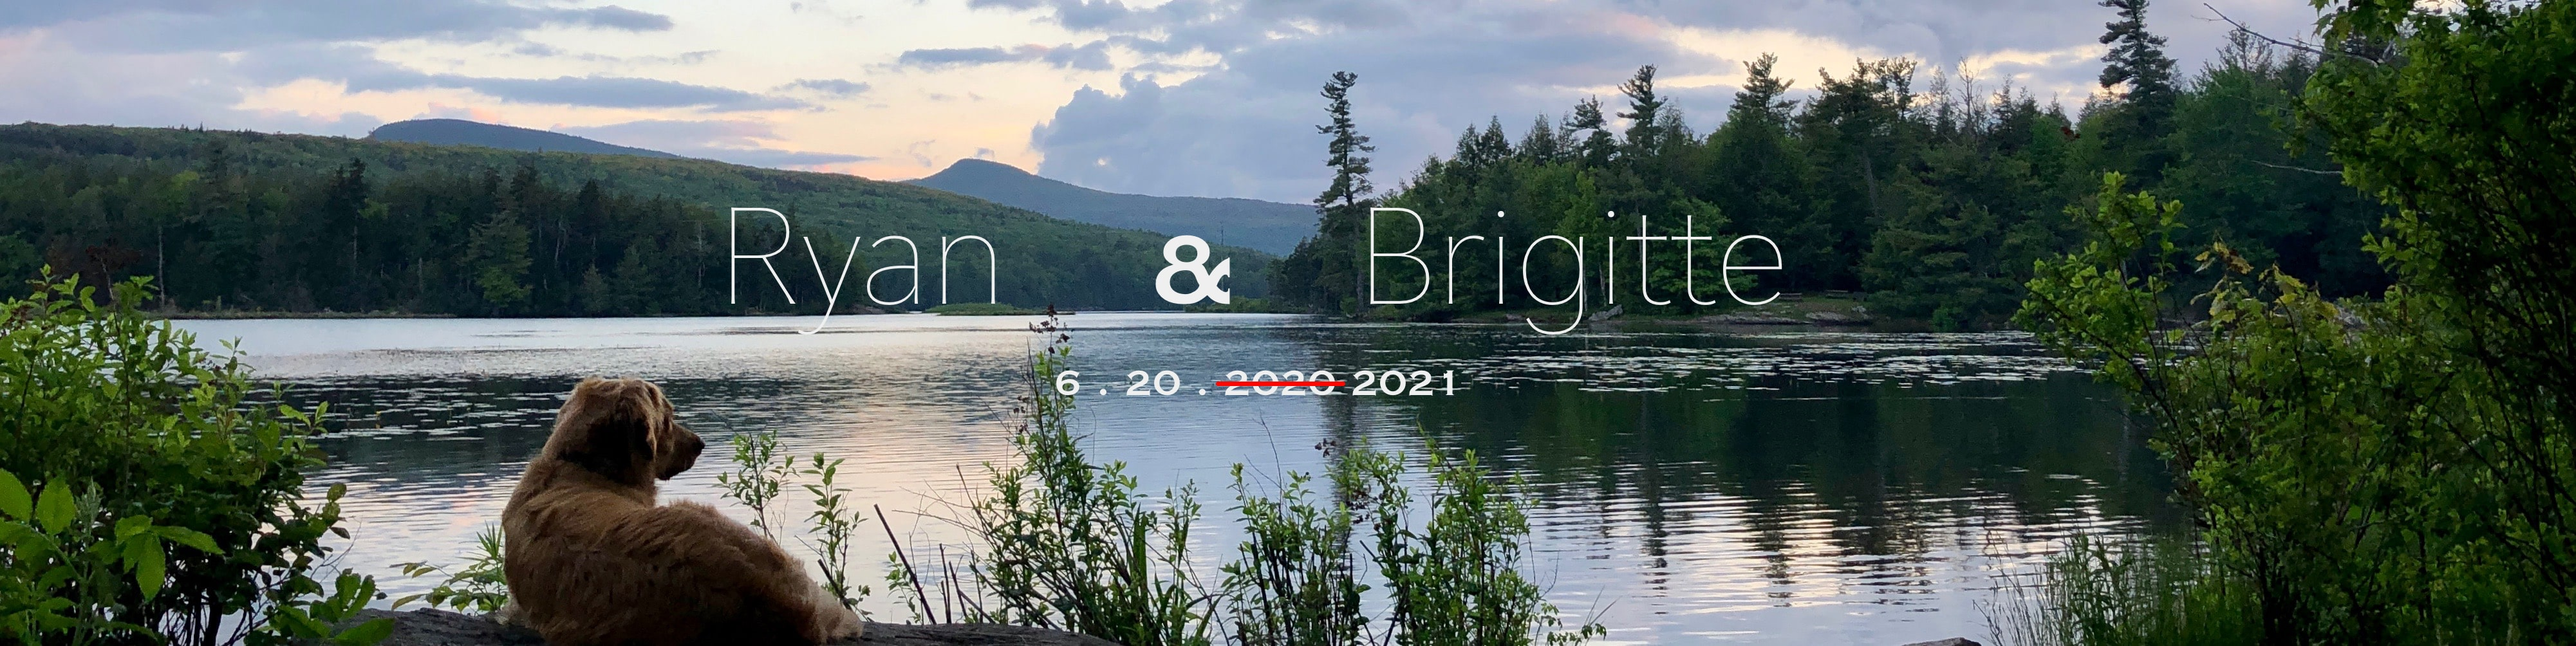
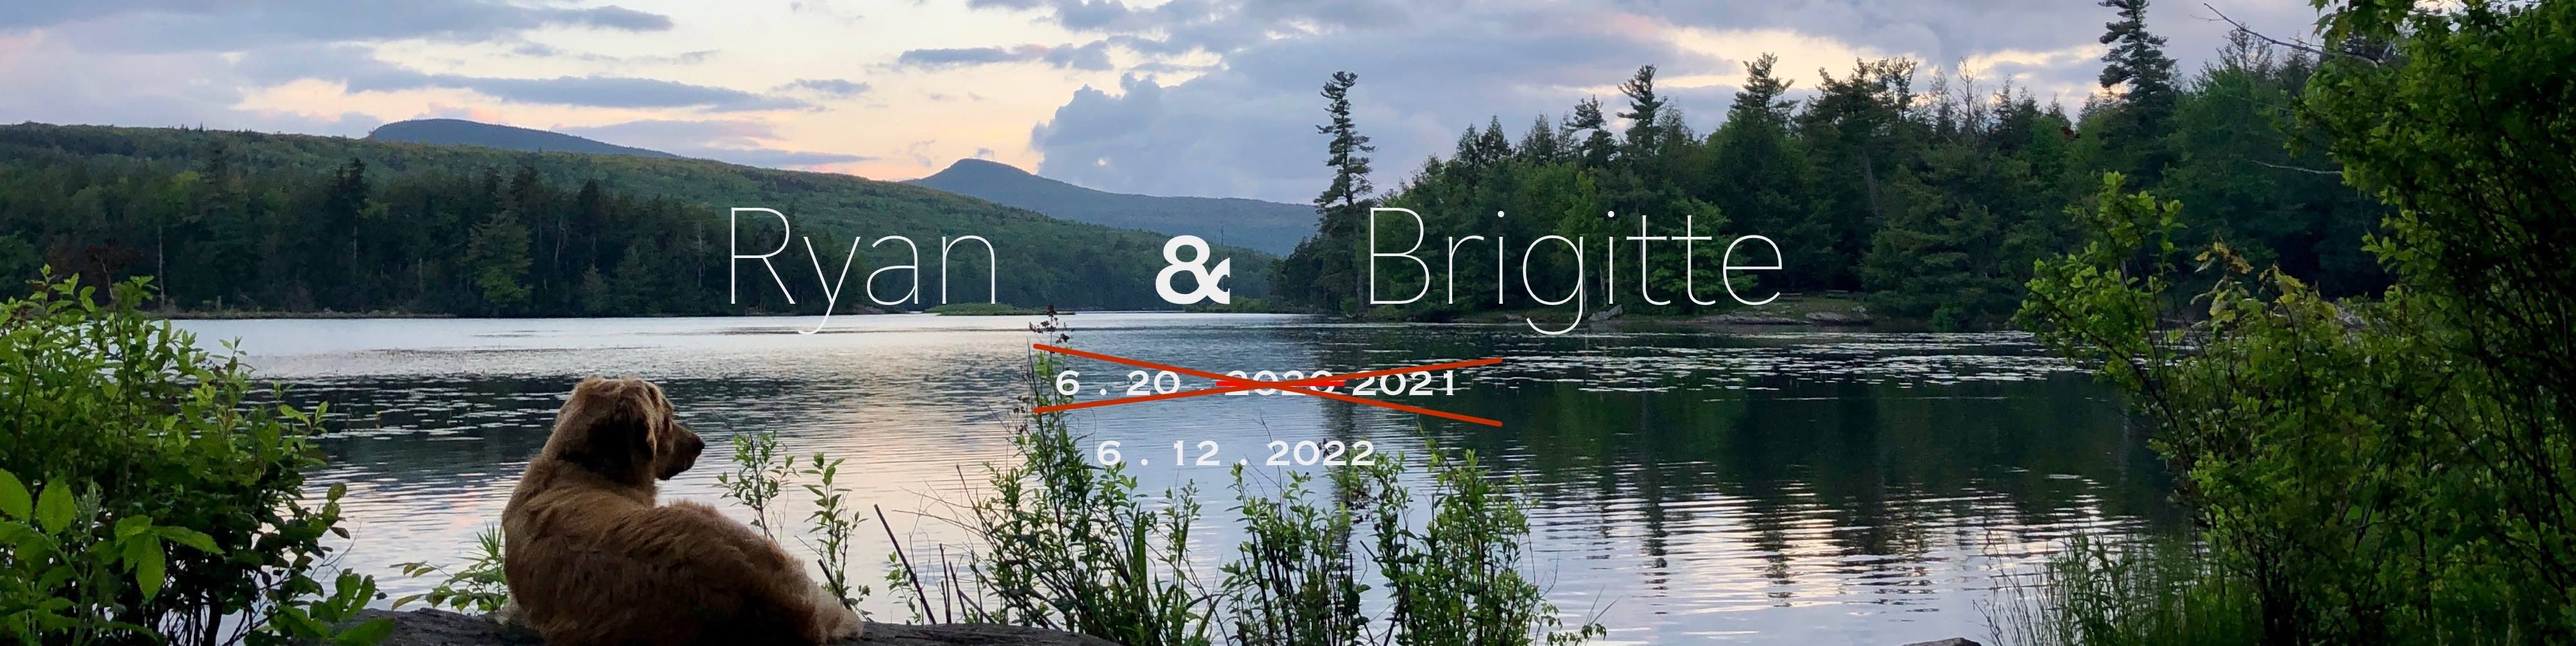
Postponing our wedding again SUCKS SUCKS SUCKS

diff --git a/app/containers/AccommodationsPage/AccommodationsPage.js b/app/containers/AccommodationsPage/AccommodationsPage.js
@@ -38,10 +38,11 @@ export default class AccommodationsPage extends React.PureComponent {
         <br />
         <div className="sub-text">
           Please reference the Quirk/McDonald Wedding when reserving your room
-          for a special rate (when calling). Reserve your room by 05/19/2021.
+          for a special rate (when calling). Reserve your room by 05/19/2022.
           Transportation will be provided to and from the wedding for guests
           staying in this hotel. <br />
           <br /> Please click 'Book Now' to make a reservation.
+          <br /> Note: Dates will be updated soon.
         </div>
       </div>
     );
@@ -60,10 +61,11 @@ export default class AccommodationsPage extends React.PureComponent {
         <br />
         <div className="sub-text">
           Please reference the Quirk/McDonald Wedding when reserving your room
-          for a special rate (when calling). Reserve your room by 05/19/2021.
+          for a special rate (when calling). Reserve your room by 05/19/2022.
           Transportation will be provided to and from the wedding for guests
           staying in this hotel. <br />
           <br /> Please click 'Book Now' to make a reservation.
+          <br /> Note: Dates will be updated soon.
         </div>
       </div>
     );

diff --git a/app/components/Header/Header.js b/app/components/Header/Header.js
@@ -76,8 +76,8 @@ class HeaderComponent extends React.Component {
         <Modal
           title={'COVID-19 UPDATE'}
           text={
-            'Love is infectious but so is COVID-19.  As a result, we have made the difficult decision to postpone our June 20th, 2020 wedding to June 20th, 2021.  ' +
-            'Please contact us if you need assistance with travel arrangements.  Invitaitons to be sent in March 2021.'
+            'Love is infectious but so is COVID-19.  As a result, we have made the difficult decision to postpone (for the second time) our June 20th, 2021 wedding to June 12th, 2022.  ' +
+            'Please contact us if you need assistance with travel arrangements.  Invitaitons to be sent in March 2022.'
           }
           onReadyObj={this.modalOnReady}
         />

diff --git a/app/containers/RSVPPage/RSVPPage.js b/app/containers/RSVPPage/RSVPPage.js
@@ -13,8 +13,8 @@ export default function RSVPPage() {
     <div className="rsvp-page">
       <TitleTextCrunch text="RSVP" />
       <Typography variant="h1">
-        Expect wedding invitations to be sent in March of 2021. <br />
-        {/* Please send back your RSVP card by <b><em><u>May 10th, 2021</u></em></b>. */}
+        Expect wedding invitations to be sent in March of 2022. <br />
+        {/* Please send back your RSVP card by <b><em><u>May 10th, 2022</u></em></b>. */}
       </Typography>
       <Typography variant="h2">
         Please contact us by phone or text at{' '}

diff --git a/app/components/SomebodySays/SomebodySays.js b/app/components/SomebodySays/SomebodySays.js
@@ -17,6 +17,7 @@ import AutoRenew from '@material-ui/icons/Autorenew';
 import { AVATAR, useStyles } from './constants';
 import Cyndaquil from './images/cyndaquil_says.jpg';
 import Edgar from './images/edgar_says.jpg';
+import Wallace from './images/wallace_says.jpg';
 
 /**
  * SomebodySays Component
@@ -56,6 +57,8 @@ const SomebodySays = (props) => {
         return Cyndaquil;
       case AVATAR.EDGAR:
         return Edgar;
+      case AVATAR.WALLACE:
+        return Wallace;
       default:
         return Cyndaquil;
     }

diff --git a/app/containers/FAQPage/faqContent.js b/app/containers/FAQPage/faqContent.js
@@ -39,12 +39,12 @@ export const faqList = [
   },
   {
     question: 'When will the official Wedding Invitations be sent?',
-    answer: 'Expect your invitation by April 2021.',
+    answer: 'Expect your invitation by April 2022.',
   },
   {
     question: 'When should I RSVP by?',
     answer:
-      'Please send your RSVP card back by May 10th, 2021. Earlier responses are welcome!',
+      'Please send your RSVP card back by May 10th, 2022. Earlier responses are welcome!',
   },
   {
     question:

diff --git a/app/containers/RegistryPage/RegistryPage.js b/app/containers/RegistryPage/RegistryPage.js
@@ -115,7 +115,7 @@ export default function RegistryPage() {
         </Card>
       </div>
       <div className="disclaimer-text">
-        NOTE: Because we live in Connecticut, we will not be able to bring any
+        NOTE: Because we live in New Jersey, we will not be able to bring any
         large gifts home with us after the wedding. We would appreciate your
         consideration to send gifts to our home address if you do choose to
         purchase one.

diff --git a/app/components/Footer/Footer.js b/app/components/Footer/Footer.js
@@ -4,11 +4,11 @@ import './style.scss';
 const Footer = () => (
   <footer>
     <section>
-      Ryan{' '}
+      Ryan &nbsp;
       <span role="img" aria-label="heart-emoji">
         ❤
       </span>
-      Brigitte
+      &nbsp; Brigitte
     </section>
   </footer>
 );

diff --git a/app/components/SomebodySays/constants.js b/app/components/SomebodySays/constants.js
@@ -3,6 +3,7 @@ import { makeStyles } from '@material-ui/core/styles';
 export const AVATAR = {
   CYNDAQUIL: 'Cyndaquil',
   EDGAR: 'Edgar',
+  WALLACE: 'Wallace',
 };
 
 export const useStyles = makeStyles((theme) => ({

diff --git a/README.md b/README.md
@@ -1,4 +1,3 @@
-
 # Ryan and Brigitte's Wedding Website
 
 Website to showcase our wedding :)
@@ -8,103 +7,105 @@ Website to showcase our wedding :)
 Using the following frameworks/libraries/tools:
 
 - _React.js_ - React 16, React Router 5
-- _Redux.js_ - Redux saga and Reselect
+- _Redux.js_ - Redux saga and Reselect -> Equipped but found no use for it :/
 - _Babel_ - ES6, ESNext, Airbnb and React/Recommended config
 - _Webpack_ - Webpack 4, Hot Reloading, Code Splitting, Optimized Prod Build
-- _Test_ - Jest with Enzyme
+- _Test_ - Jest with Enzyme -> I should really write tests :)
 - _Lint_ - ESlint
 - _Styles_ - SCSS Styling
-
 
 ## Getting Started
 
 ### Node.js Runtime
+
 This application will run on the Node.js runtime and NPM.
 
 ##### Windows User
-1) Download Windows installer of Node.js: https://nodejs.org/en/ <br />
-    a) Select the version that is “Recommended for Most Users” <br />
-2) Run the installer <br />
-    b) Allow for all things to be installed (Node.js runtime environemnt, NPM, and allow the setup to add them to your PATH)
+
+1. Download Windows installer of Node.js: https://nodejs.org/en/ <br />
+   a) Select the version that is “Recommended for Most Users” <br />
+2. Run the installer <br />
+   b) Allow for all things to be installed (Node.js runtime environemnt, NPM, and allow the setup to add them to your PATH)
 
 ##### Mac User
-1) Install xcode if it is not already installed: <br />
+
+1.  Install xcode if it is not already installed: <br />
     a) Open terminal <br />
     b) Type: <br />
     >       xcode-select --install
-2) Install Homebrew if it is not already installed: <br />
+2.  Install Homebrew if it is not already installed: <br />
     a) Open terminal <br />
     b) Type: <br />
     >       ruby -e "$(curl -fsSL https://raw.githubusercontent.com/Homebrew/install/master/install)"
-3) Install Node.js <br />
+3.  Install Node.js <br />
     a) Open terminal <br />
     b) Type: <br />
     >       brew install node
 
-   
 ### IntelliJ Configurations
-1) Verify that you have your language level set to React JSX
 
-    a) Preferences / Language & Frameworks / JavaScript
-    
-    b) Set JavaScript language level to React JSX in the dropdown
-    
-2) Set up IntelliJ to run the app locally:
+1. Verify that you have your language level set to React JSX
 
-    a) Edit Run Configurations 
-    
-    b) Add new configuration (plus button in top right)
-    
-    c) Select 'npm'
-    
-    d) Verify that the 'package.json' points to the file of the same name within the root of our project space
-    
-    e) set the command to 'run'
-     
-    f) set the scripts to 'start'
-    
+   a) Preferences / Language & Frameworks / JavaScript
+
+   b) Set JavaScript language level to React JSX in the dropdown
+
+2. Set up IntelliJ to run the app locally:
+
+   a) Edit Run Configurations
+
+   b) Add new configuration (plus button in top right)
+
+   c) Select 'npm'
+
+   d) Verify that the 'package.json' points to the file of the same name within the root of our project space
+
+   e) set the command to 'run'
+
+   f) set the scripts to 'start'
 
 ## Running Locally
-1) The following are NPM commands for installing module dependencies in the package.json 
-and for compiling/executing modules.  Run these commands from project root directory.
- 
-    a) Install dependent modules: 
-    >       npm install 
-    
-    b) Run the UI (which runs webpack server, transpiles JS, compiles SCSS files, 
-    and watches for any changes so that they can be reflected in the running 
-    application): <br />
-    >       npm start
-    
-    c) Currently the application runs on port 8080; navigate to:
-    >       http://localhost:8080
 
-## Testing 
+1.  The following are NPM commands for installing module dependencies in the package.json
+    and for compiling/executing modules. Run these commands from project root directory.
+    a) Install dependent modules: > npm install
+
+        b) Run the UI (which runs webpack server, transpiles JS, compiles SCSS files,
+        and watches for any changes so that they can be reflected in the running
+        application): <br />
+        >       npm start
+
+        c) Currently the application runs on port 8080; navigate to:
+        >       http://localhost:8080
+
+## Testing
 
 ##### Creating Tests
-1)  Tests for each component are in:
+
+1.  Tests for each component are in:
+
     >       [component directory]/tests/[component name].test.js
 
-2) Running tests with locally:
+2.  Running tests with locally:
 
-    a) For a single test run which also generates coverage reports where that 
-    outputs to the <i>/coverage</i> directory.  In coverage directory,
+    a) For a single test run which also generates coverage reports where that
+    outputs to the <i>/coverage</i> directory. In coverage directory,
     open <i><b>index.html</b></i> in a browser for optimal viewing.
-    
+
     >       npm run test
-    
+
     b) The local test environment provides the ability for tests to run
-        on demand as they are updated and a CLI to execute some or all tests
-        at any given time when using.
+    on demand as they are updated and a CLI to execute some or all tests
+    at any given time when using.
 
     >       npm run test:watch
 
-## Production Build 
+## Production Build
 
 ##### Creating a Production Optimized Build
-1) A build optimized for production can be transpiled.  This build will be
-    output to the <b><i>/build</i></b> directory.  To create a production 
-    build, run the following command: 
+
+1.  A build optimized for production can be transpiled. This build will be
+    output to the <b><i>/build</i></b> directory. To create a production
+    build, run the following command:
 
     >       npm run build
-    
